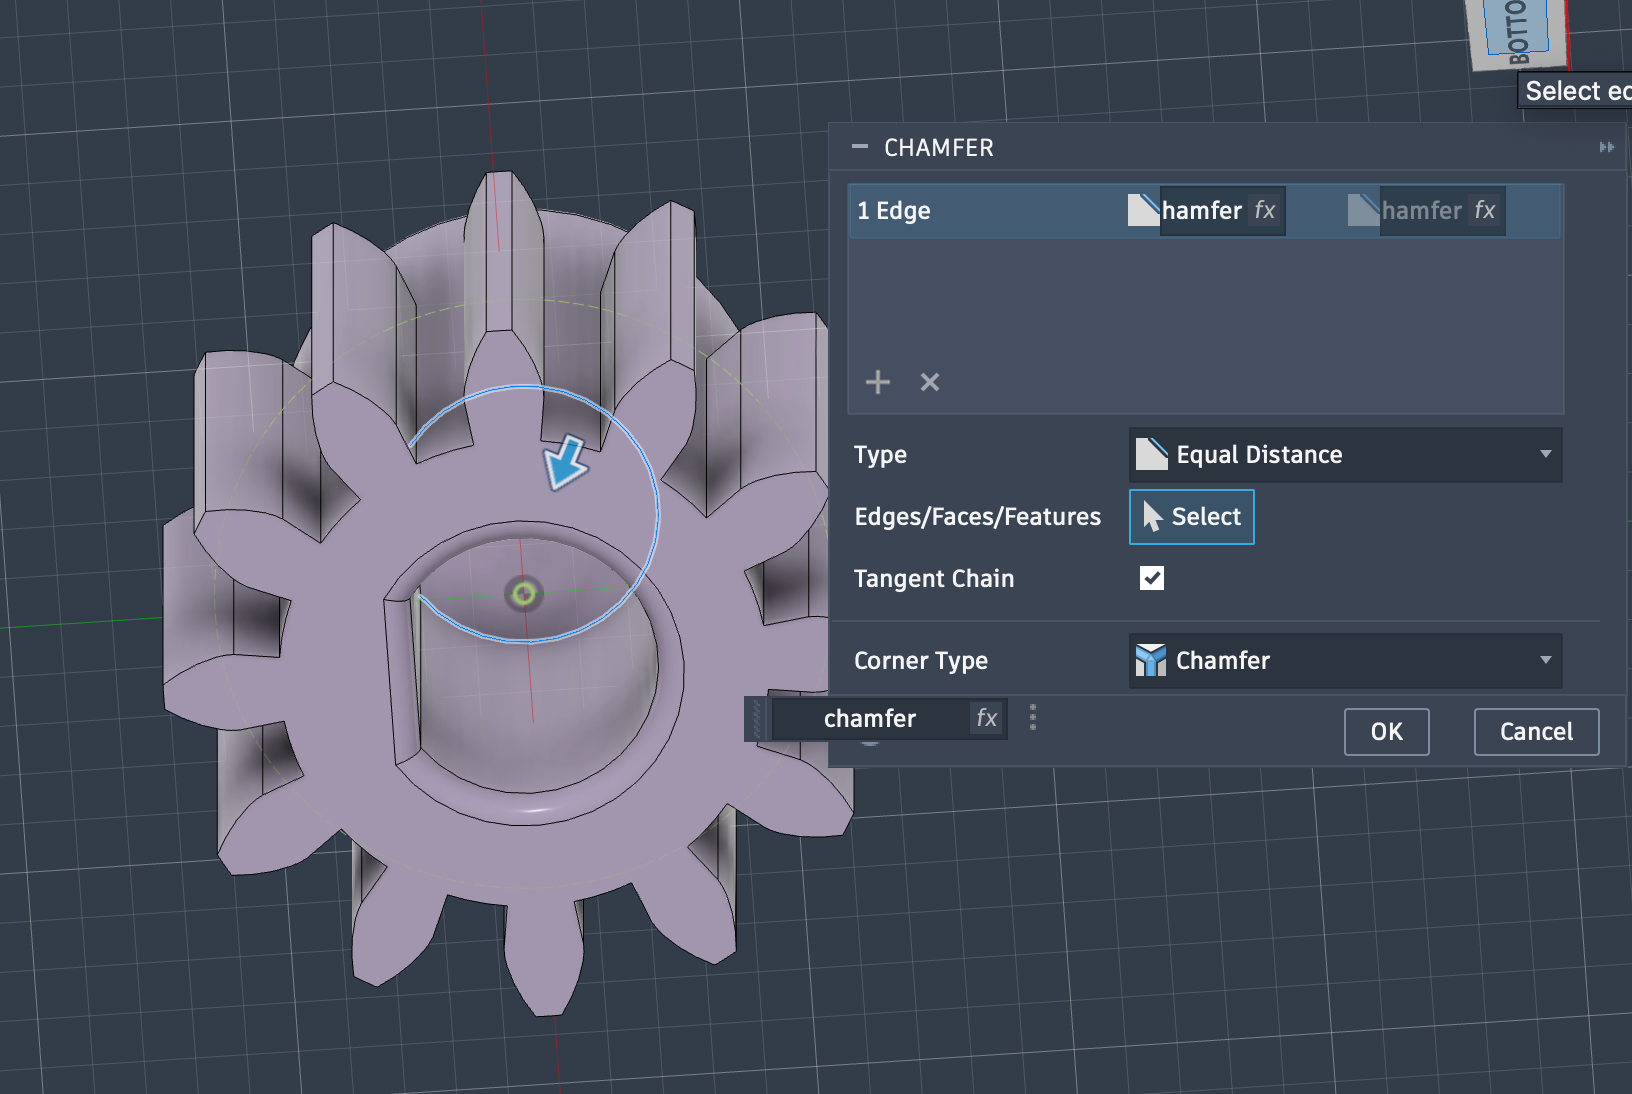
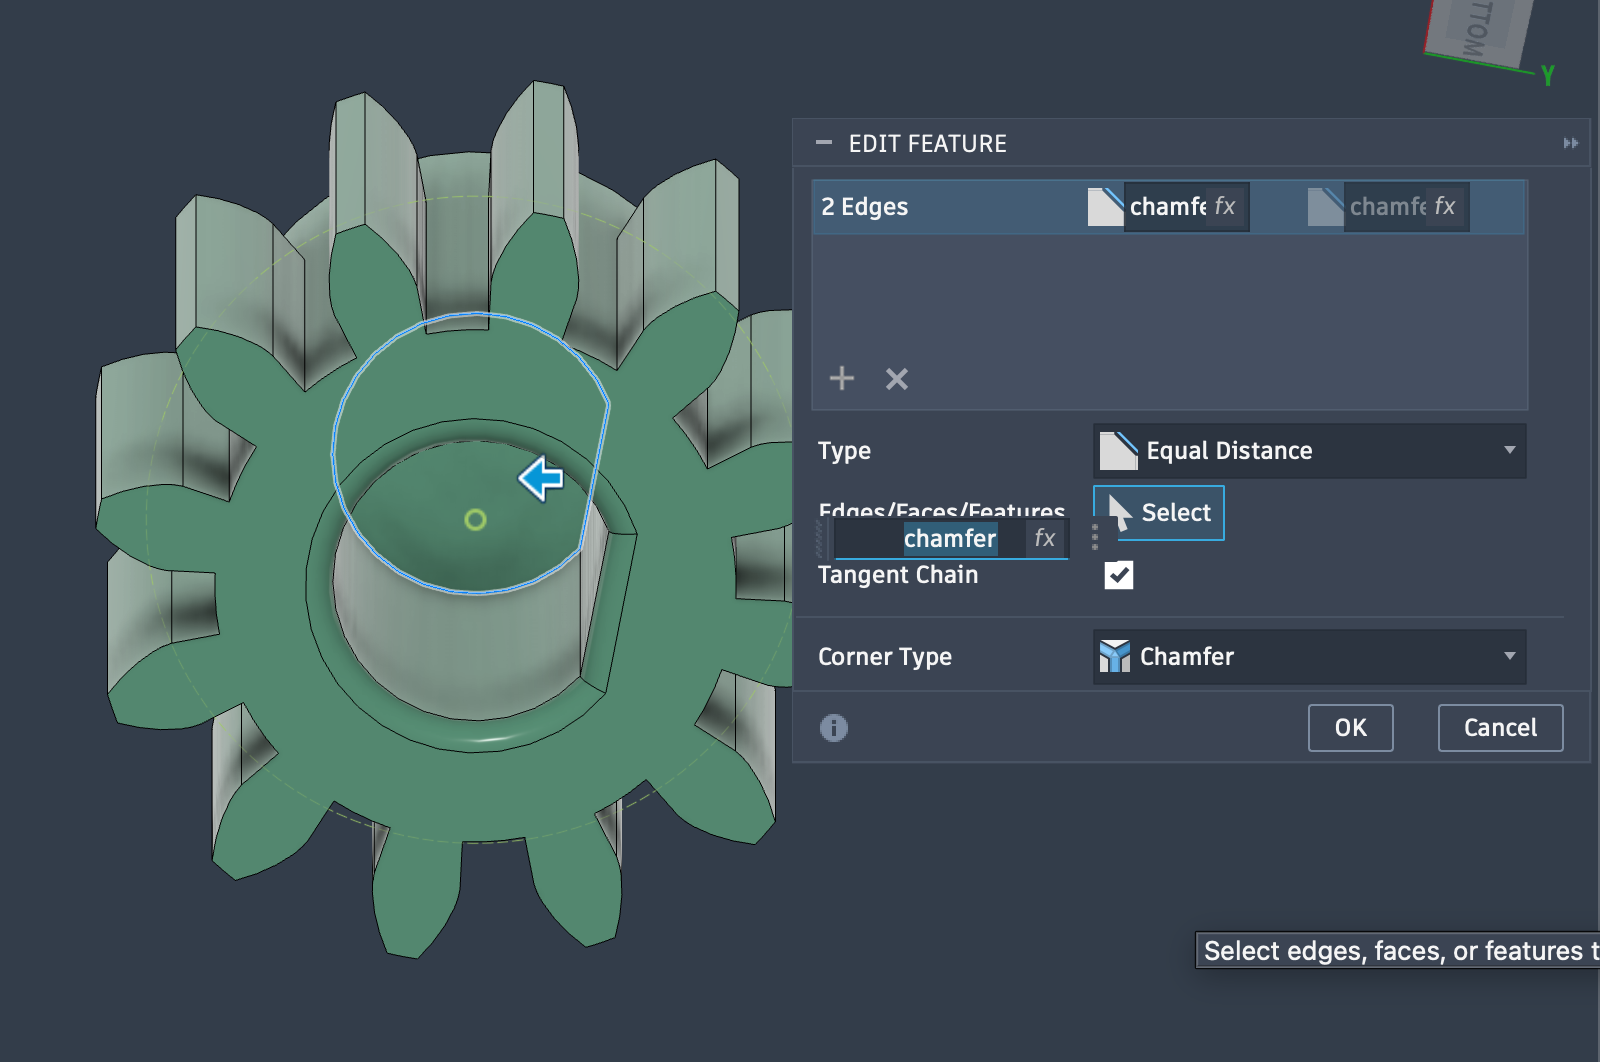
.

diff --git a/README.md b/README.md
@@ -1,6 +1,7 @@
 # Nema-17/23-planetary-gear
 
 A fully parametric planetary gearbox designed for NEMA 17/23 motors.
+
 Gear ratio, backlash, and geometry can be adjusted through parameters.
 
 ![](assets/fully%20assembled.png)
@@ -82,7 +83,7 @@ You should end up with this
 
 ![](assets/generated%20gears.png)
 
-Export ring gear as `RingTemp` to your project
+Export ring gear as `Ring` to your project
 
 ![](assets/export%20ring.png)
 
@@ -170,29 +171,30 @@ We now have all the components, time to combine them
 
 ### Assemble Components
 
-In a new Hybrid Design, import `RingBottom`, `RingTemp` and `RingTop`
+Open `Ring`, import `RingBottom` and `RingTop`
 
-![](assets/new%20hybrid%20design,%20insert%20ring,ring%20top%20and%20ring%20bottom.png)
+![](assets/open_ring_temp.png)
 
-Break link any of them
-
-Join `RingBottom` and `RingTemp` at their bottoms
+Join `RingBottom` and `Ring` at their bottoms
 
 ![](assets/join%20ring%20bottom%20and%20ring%20at%20the%20bottom.png)
 
-Join `RingTemp`'s top and `RingTop`'s bottom
+Join `Ring` and `RingTop` at their tops, rotating `RingTop` 3°
+![](assets/rotate_ring_top.png)
 
 Should end up with this
 
 ![](assets/ring_joined.png)
 
-Combine all of them as new component
+Combine all of them
 
-Export to project as `Ring`
+Select and cut the 3 screw mounts
 
-Close current design without saving
+![](assets/select_screws.png)
 
-Move `RingTemp` to trash
+Remove `RingBottom` and `RingTop`
+
+Save
 
 ---
 
@@ -222,7 +224,7 @@ Close current design without saving
 
 ---
 
-Open `CarrierGenerator`, move the timeline marker all the way to the end
+Open `CarrierGenerator` again, move the timeline marker all the way to the end
 
 Insert `CarrierOutput`
 